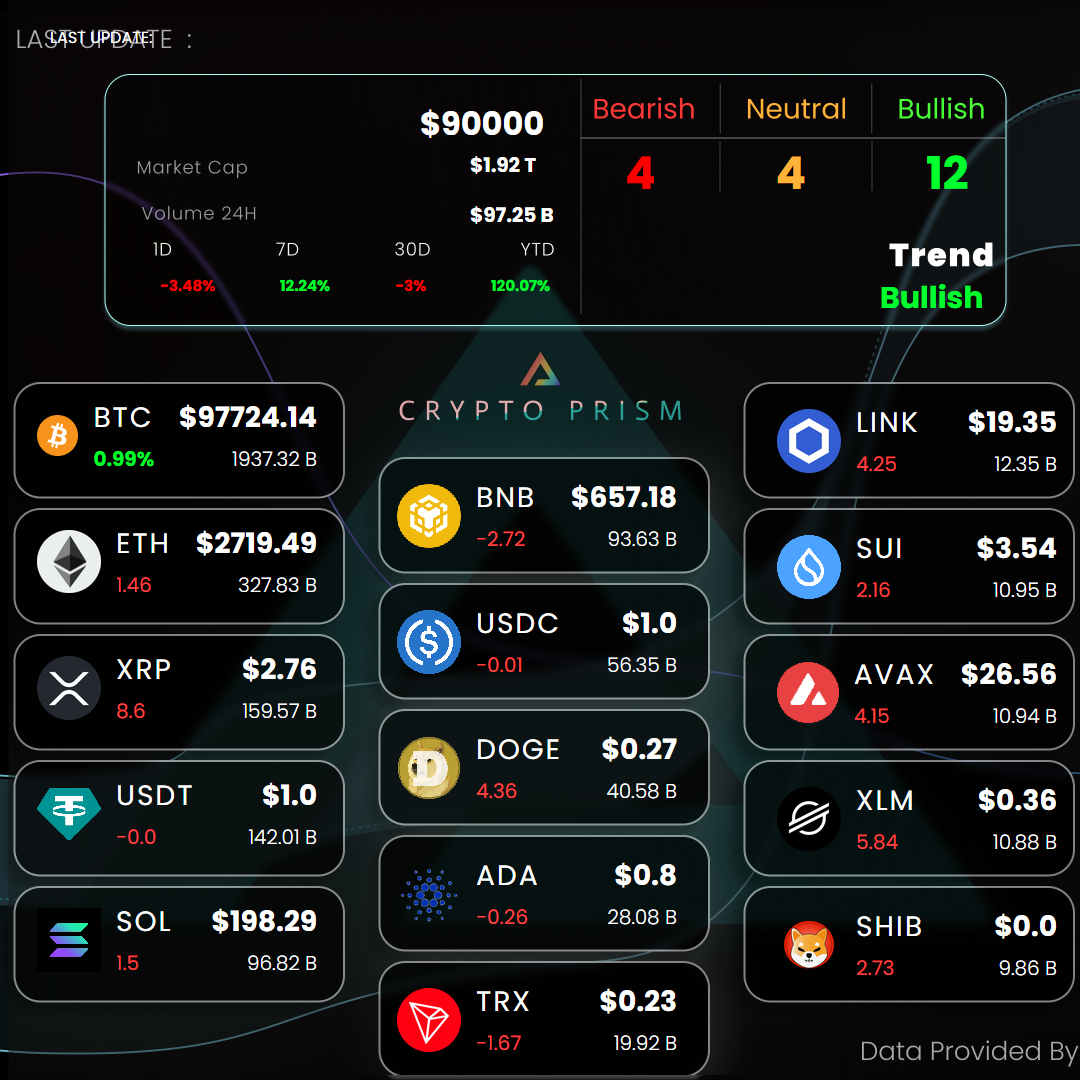
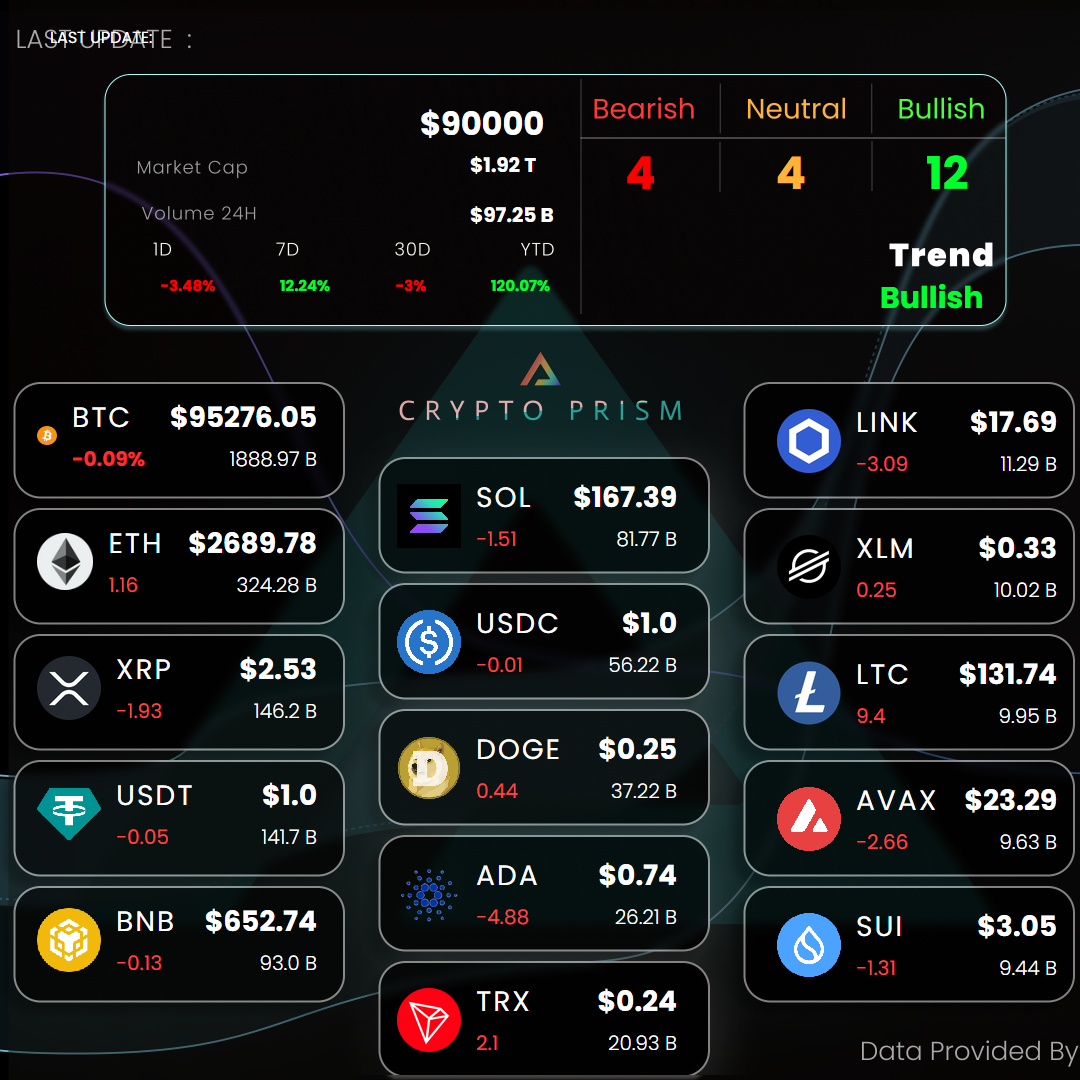
commiting changes

diff --git a/1_output.html b/1_output.html
@@ -56,14 +56,14 @@
                 </div>
                 <div class="name">
                     <div class="coin-name">BTC</div>
-                    <div class="pct-change positive">
-                        0.99%
+                    <div class="pct-change negative">
+                        -0.09%
                     </div>
                     
                 </div>
                 <div class="price">
-                    <div class="coin-price">$97724.14</div>
-                    <div class="m-cap">1937.32 B</div>
+                    <div class="coin-price">$95276.05</div>
+                    <div class="m-cap">1888.97 B</div>
                 </div>
             </div>
 
@@ -73,11 +73,11 @@
                 </div>
                 <div class="name">
                     <div class="coin-name">ETH</div>
-                    <div class="pct-change">1.46</div>
+                    <div class="pct-change">1.16</div>
                 </div>
                 <div class="price">
-                    <div class="coin-price">$2719.49</div>
-                    <div class="m-cap">327.83 B</div>
+                    <div class="coin-price">$2689.78</div>
+                    <div class="m-cap">324.28 B</div>
                 </div>
             </div>
 
@@ -87,11 +87,11 @@
                 </div>
                 <div class="name">
                     <div class="coin-name">XRP</div>
-                    <div class="pct-change">8.6</div>
+                    <div class="pct-change">-1.93</div>
                 </div>
                 <div class="price">
-                    <div class="coin-price">$2.76</div>
-                    <div class="m-cap">159.57 B</div>
+                    <div class="coin-price">$2.53</div>
+                    <div class="m-cap">146.2 B</div>
                 </div>
             </div>
 
@@ -101,25 +101,25 @@
                 </div>
                 <div class="name">
                     <div class="coin-name">USDT</div>
-                    <div class="pct-change">-0.0</div>
+                    <div class="pct-change">-0.05</div>
                 </div>
                 <div class="price">
                     <div class="coin-price">$1.0</div>
-                    <div class="m-cap">142.01 B</div>
+                    <div class="m-cap">141.7 B</div>
                 </div>
             </div>
 
             <div class="coin-card">
                 <div class="logo">
-                    <img src="https://s2.coinmarketcap.com/static/img/coins/64x64/5426.png" alt="Coin logo">
+                    <img src="https://s2.coinmarketcap.com/static/img/coins/64x64/1839.png" alt="Coin logo">
                 </div>
                 <div class="name">
-                    <div class="coin-name">SOL</div>
-                    <div class="pct-change">1.5</div>
+                    <div class="coin-name">BNB</div>
+                    <div class="pct-change">-0.13</div>
                 </div>
                 <div class="price">
-                    <div class="coin-price">$198.29</div>
-                    <div class="m-cap">96.82 B</div>
+                    <div class="coin-price">$652.74</div>
+                    <div class="m-cap">93.0 B</div>
                 </div>
             </div>
         </div>
@@ -128,15 +128,15 @@
 
             <div class="coin-card">
                 <div class="logo">
-                    <img src="https://s2.coinmarketcap.com/static/img/coins/64x64/1839.png" alt="Coin logo">
+                    <img src="https://s2.coinmarketcap.com/static/img/coins/64x64/5426.png" alt="Coin logo">
                 </div>
                 <div class="name">
-                    <div class="coin-name">BNB</div>
-                    <div class="pct-change">-2.72</div>
+                    <div class="coin-name">SOL</div>
+                    <div class="pct-change">-1.51</div>
                 </div>
                 <div class="price">
-                    <div class="coin-price">$657.18</div>
-                    <div class="m-cap">93.63 B</div>
+                    <div class="coin-price">$167.39</div>
+                    <div class="m-cap">81.77 B</div>
                 </div>
             </div>
 
@@ -150,7 +150,7 @@
                 </div>
                 <div class="price">
                     <div class="coin-price">$1.0</div>
-                    <div class="m-cap">56.35 B</div>
+                    <div class="m-cap">56.22 B</div>
                 </div>
             </div>
 
@@ -160,11 +160,11 @@
                 </div>
                 <div class="name">
                     <div class="coin-name">DOGE</div>
-                    <div class="pct-change">4.36</div>
+                    <div class="pct-change">0.44</div>
                 </div>
                 <div class="price">
-                    <div class="coin-price">$0.27</div>
-                    <div class="m-cap">40.58 B</div>
+                    <div class="coin-price">$0.25</div>
+                    <div class="m-cap">37.22 B</div>
                 </div>
             </div>
 
@@ -174,11 +174,11 @@
                 </div>
                 <div class="name">
                     <div class="coin-name">ADA</div>
-                    <div class="pct-change">-0.26</div>
+                    <div class="pct-change">-4.88</div>
                 </div>
                 <div class="price">
-                    <div class="coin-price">$0.8</div>
-                    <div class="m-cap">28.08 B</div>
+                    <div class="coin-price">$0.74</div>
+                    <div class="m-cap">26.21 B</div>
                 </div>
             </div>
 
@@ -188,11 +188,11 @@
                 </div>
                 <div class="name">
                     <div class="coin-name">TRX</div>
-                    <div class="pct-change">-1.67</div>
+                    <div class="pct-change">2.1</div>
                 </div>
                 <div class="price">
-                    <div class="coin-price">$0.23</div>
-                    <div class="m-cap">19.92 B</div>
+                    <div class="coin-price">$0.24</div>
+                    <div class="m-cap">20.93 B</div>
                 </div>
             </div>
         </div>
@@ -205,39 +205,11 @@
                 </div>
                 <div class="name">
                     <div class="coin-name">LINK</div>
-                    <div class="pct-change">4.25</div>
+                    <div class="pct-change">-3.09</div>
                 </div>
                 <div class="price">
-                    <div class="coin-price">$19.35</div>
-                    <div class="m-cap">12.35 B</div>
-                </div>
-            </div>
-
-            <div class="coin-card">
-                <div class="logo">
-                    <img src="https://s2.coinmarketcap.com/static/img/coins/64x64/20947.png" alt="Coin logo">
-                </div>
-                <div class="name">
-                    <div class="coin-name">SUI</div>
-                    <div class="pct-change">2.16</div>
-                </div>
-                <div class="price">
-                    <div class="coin-price">$3.54</div>
-                    <div class="m-cap">10.95 B</div>
-                </div>
-            </div>
-
-            <div class="coin-card">
-                <div class="logo">
-                    <img src="https://s2.coinmarketcap.com/static/img/coins/64x64/5805.png" alt="Coin logo">
-                </div>
-                <div class="name">
-                    <div class="coin-name">AVAX</div>
-                    <div class="pct-change">4.15</div>
-                </div>
-                <div class="price">
-                    <div class="coin-price">$26.56</div>
-                    <div class="m-cap">10.94 B</div>
+                    <div class="coin-price">$17.69</div>
+                    <div class="m-cap">11.29 B</div>
                 </div>
             </div>
 
@@ -247,25 +219,53 @@
                 </div>
                 <div class="name">
                     <div class="coin-name">XLM</div>
-                    <div class="pct-change">5.84</div>
+                    <div class="pct-change">0.25</div>
                 </div>
                 <div class="price">
-                    <div class="coin-price">$0.36</div>
-                    <div class="m-cap">10.88 B</div>
+                    <div class="coin-price">$0.33</div>
+                    <div class="m-cap">10.02 B</div>
                 </div>
             </div>
 
             <div class="coin-card">
                 <div class="logo">
-                    <img src="https://s2.coinmarketcap.com/static/img/coins/64x64/5994.png" alt="Coin logo">
+                    <img src="https://s2.coinmarketcap.com/static/img/coins/64x64/2.png" alt="Coin logo">
                 </div>
                 <div class="name">
-                    <div class="coin-name">SHIB</div>
-                    <div class="pct-change">2.73</div>
+                    <div class="coin-name">LTC</div>
+                    <div class="pct-change">9.4</div>
                 </div>
                 <div class="price">
-                    <div class="coin-price">$0.0</div>
-                    <div class="m-cap">9.86 B</div>
+                    <div class="coin-price">$131.74</div>
+                    <div class="m-cap">9.95 B</div>
+                </div>
+            </div>
+
+            <div class="coin-card">
+                <div class="logo">
+                    <img src="https://s2.coinmarketcap.com/static/img/coins/64x64/5805.png" alt="Coin logo">
+                </div>
+                <div class="name">
+                    <div class="coin-name">AVAX</div>
+                    <div class="pct-change">-2.66</div>
+                </div>
+                <div class="price">
+                    <div class="coin-price">$23.29</div>
+                    <div class="m-cap">9.63 B</div>
+                </div>
+            </div>
+
+            <div class="coin-card">
+                <div class="logo">
+                    <img src="https://s2.coinmarketcap.com/static/img/coins/64x64/20947.png" alt="Coin logo">
+                </div>
+                <div class="name">
+                    <div class="coin-name">SUI</div>
+                    <div class="pct-change">-1.31</div>
+                </div>
+                <div class="price">
+                    <div class="coin-price">$3.05</div>
+                    <div class="m-cap">9.44 B</div>
                 </div>
             </div>
         </div>

diff --git a/1.html b/1.html
@@ -13,6 +13,10 @@
         <div class="header-card">
             <div class="coin-stat">
                 <div style="display: flex; gap: 240px; font-size: 32px; position:absolute; top:100px; left: 420px">
+                    <div class="logo">
+                        <img src="" alt="Coin logo">
+                    </div>
+                    <h2>BTC</h2>
                     <h4>$90000</h4>
                 </div>
                 <div style="display: flex; gap: 200px; font-size: 20px; position:absolute; top:150px; left: 470px">

diff --git a/instapost.py b/instapost.py
@@ -90,6 +90,99 @@ def fetch_data_as_dataframe():
         top_100_cc = pd.DataFrame()  # Return an empty DataFrame in case of error
     return top_100_cc
 
+# Data for BTC snapshot
+def btc_snapshot():
+    # @title bitcoing data only
+  query_top_1 = """
+  SELECT slug, cmc_rank, last_updated, symbol, price, percent_change24h, volume24h, market_cap, percent_change7d, percent_change30d, ytd_price_change_percentage
+  FROM crypto_listings_latest_1000
+  WHERE cmc_rank < 2
+  """
+  top_1_cc  = pd.read_sql_query(query_top_1, gcp_engine)
+  
+  def format_market_cap(market_cap):
+    """Formats market cap with units (Million, Billion, Trillion)."""
+    if pd.isnull(market_cap):
+        return market_cap
+    market_cap = float(market_cap)
+    if market_cap >= 1e12:
+        return f"${market_cap / 1e12:.2f} T"
+    elif market_cap >= 1e9:
+        return f"${market_cap / 1e9:.2f} B"
+    elif market_cap >= 1e6:
+        return f"${market_cap / 1e6:.2f} M"
+    else:
+        return f"${market_cap:.2f}"
+
+  # Apply the formatting function to the 'market_cap' column
+  top_1_cc['market_cap'] = top_1_cc['market_cap'].apply(format_market_cap)
+  # Apply the formatting function to the 'market_cap' column
+  top_1_cc['volume24h'] = top_1_cc['volume24h'].apply(format_market_cap)
+
+  """Color Code for PCT_Change"""
+
+
+  # Format the 'tg_percent_change24h' column with 2 decimal places and add '%'
+  top_1_cc['percent_change24h'] = top_1_cc['percent_change24h'].apply(lambda x: f"{x:.2f}%" if not pd.isnull(x) else x)
+  top_1_cc['percent_change7d'] = top_1_cc['percent_change7d'].apply(lambda x: f"{x:.2f}%" if not pd.isnull(x) else x)
+  top_1_cc['percent_change30d'] = top_1_cc['percent_change30d'].apply(lambda x: f"{x:.2f}%" if not pd.isnull(x) else x)
+  top_1_cc['ytd_price_change_percentage'] = top_1_cc['ytd_price_change_percentage'].apply(lambda x: f"{x:.2f}%" if not pd.isnull(x) else x)
+
+  # Format the 'price' column with '$' and 2 decimal places
+  top_1_cc['price'] = top_1_cc['price'].apply(lambda x: f"${x:.2f}" if not pd.isnull(x) else x)
+
+  # top_1_cc.head()
+
+  # @title fetching dmv values for bitcoin
+  # Construct the SQL query
+  query = f"""
+  SELECT *
+  FROM "FE_DMV_ALL"
+  WHERE slug = 'bitcoin'
+  """
+  # Execute the query and fetch the data into a DataFrame
+  dmv_bitcoin = pd.read_sql_query(query, gcp_engine)
+
+  # @title count of bullish bearing and neautal for btc
+  # prompt: at dmv_bitcoin can you help me count the number '1' '-1' and '0' in the first row and create a add three more colums bullish- Number of '1' in the first row bearishNumber of '-1' in the first row and Number of '0' in the first row is neutral
+  dmv_bitcoin_first_row = dmv_bitcoin.iloc[0].tolist()
+  bullish_count = dmv_bitcoin_first_row.count(1)
+  bearish_count = dmv_bitcoin_first_row.count(-1)
+  neutral_count = dmv_bitcoin_first_row.count(0)
+
+  # Print counts
+  print(f"Bullish (1): {bullish_count}")
+  print(f"Bearish (-1): {bearish_count}")
+  print(f"Neutral (0): {neutral_count}")
+
+  # Adding the counts to the top_1_cc DataFrame
+  top_1_cc['bullish'] = bullish_count
+  top_1_cc['bearish'] = bearish_count
+  top_1_cc['neutral'] = neutral_count
+
+  # prompt: i want to add a new coloum as Trend and classify it as bearish bullish or consolidating what logic can i use --- # Adding the counts to the top_1_cc DataFrame
+  # top_1_cc['bullish'] = bullish_count
+  # top_1_cc['bearish'] = bearish_count
+  # top_1_cc['neutral'] = neutral_count for these
+
+  # Calculate the difference between bullish and bearish counts
+  top_1_cc['sentiment_diff'] = top_1_cc['bullish'] - top_1_cc['bearish']
+  
+
+  # Define a function to classify the trend
+  def classify_trend(sentiment_diff):
+      if sentiment_diff > 4:  # Adjust threshold as needed
+          return "Bullish"
+      elif sentiment_diff < -4: # Adjust threshold as needed
+          return "Bearish"
+      else:
+          return "Consolidating"
+
+  # Apply the function to create the 'Trend' column
+  top_1_cc['Trend'] = top_1_cc['sentiment_diff'].apply(classify_trend)
+  return top_1_cc
+  
+
 # fetch for page 3
 def fetch_for_3():
     """Fetch data from the 'coins' table and return as a Pandas DataFrame."""
@@ -332,6 +425,8 @@ async def render_page_1():
     """Fetch data and render the HTML page using Jinja2, then convert the HTML to an image using Playwright."""
     # Fetch the data using the previously defined function
     coins = fetch_data_as_dataframe()
+    snap = btc_snapshot()
+    snap.info()
 
     if coins.empty:
         print("No data to render.")
@@ -508,9 +603,9 @@ async def render_page_5():
 
 if __name__=="__main__":
 
-    #asyncio.run(render_page_1())
+    asyncio.run(render_page_1())
     #asyncio.run(render_page_2())
     #asyncio.run(render_page_3())
-    asyncio.run(render_page_4())
+    #asyncio.run(render_page_4())
     #asyncio.run(render_page_5())
 
